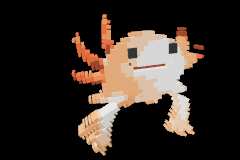
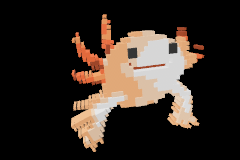
Keep axolotl limb strokes attached

Changed region(s): [[0.2917, 0.5938, 0.6125, 0.9688], [0.6708, 0.5312, 0.8458, 0.875]]

diff --git a/artwork/axolotl-model.tsx b/artwork/axolotl-model.tsx
@@ -45,6 +45,9 @@ const SVG_SCALE = 0.01;
 const TAU = Math.PI * 2;
 const EYE_FILL = axolotl.layers[axolotl.layers.length - 1].fill;
 
+const LEFT_LIMB_PIVOT: [number, number] = [84, 181];
+const RIGHT_LIMB_PIVOT: [number, number] = [252, 181];
+
 const PARTS: PartDefinition[] = [
   { id: "body", pivot: [156, 133], amplitude: 0, depthAmplitude: 0, frequency: 0, phase: 0, direction: 0 },
   { id: "gill-left-upper", pivot: [80, 94], amplitude: 0.25, depthAmplitude: 0.08, frequency: 2, phase: 0.1, direction: 1 },
@@ -52,8 +55,8 @@ const PARTS: PartDefinition[] = [
   { id: "gill-left-inner", pivot: [99, 72], amplitude: 0.14, depthAmplitude: 0.05, frequency: 2, phase: 1.3, direction: 1 },
   { id: "gill-right-upper", pivot: [264, 92], amplitude: 0.23, depthAmplitude: 0.08, frequency: 2, phase: 0.55, direction: -1 },
   { id: "gill-right-side", pivot: [270, 107], amplitude: 0.19, depthAmplitude: 0.07, frequency: 2, phase: 1.1, direction: 1 },
-  { id: "limb-left", pivot: [116, 174], amplitude: 0.48, depthAmplitude: 0.16, frequency: 1, phase: 0, direction: 1 },
-  { id: "limb-right", pivot: [218, 174], amplitude: 0.46, depthAmplitude: 0.15, frequency: 1, phase: Math.PI, direction: 1 },
+  { id: "limb-left", pivot: LEFT_LIMB_PIVOT, amplitude: 0.36, depthAmplitude: 0.08, frequency: 1, phase: 0, direction: 1 },
+  { id: "limb-right", pivot: RIGHT_LIMB_PIVOT, amplitude: 0.36, depthAmplitude: 0.08, frequency: 1, phase: Math.PI, direction: 1 },
   { id: "eyes", pivot: [184, 76], amplitude: 0, depthAmplitude: 0, frequency: 0, phase: 0, direction: 0 },
 ];
 
@@ -68,8 +71,8 @@ function partFor(rectangle: Rectangle, fill: string): PartId {
   if (centerY < 76 && centerX >= 82 && centerX < 120) return "gill-left-inner";
   if (centerY < 96 && centerX > 264) return "gill-right-upper";
   if (centerY >= 96 && centerY < 137 && centerX > 276) return "gill-right-side";
-  if (centerY >= 174 && centerX < 165) return "limb-left";
-  if (centerY >= 174 && centerX > 195) return "limb-right";
+  if (centerY >= LEFT_LIMB_PIVOT[1] && centerX < 104) return "limb-left";
+  if (centerY >= RIGHT_LIMB_PIVOT[1] && centerX > 218) return "limb-right";
   return "body";
 }
 
